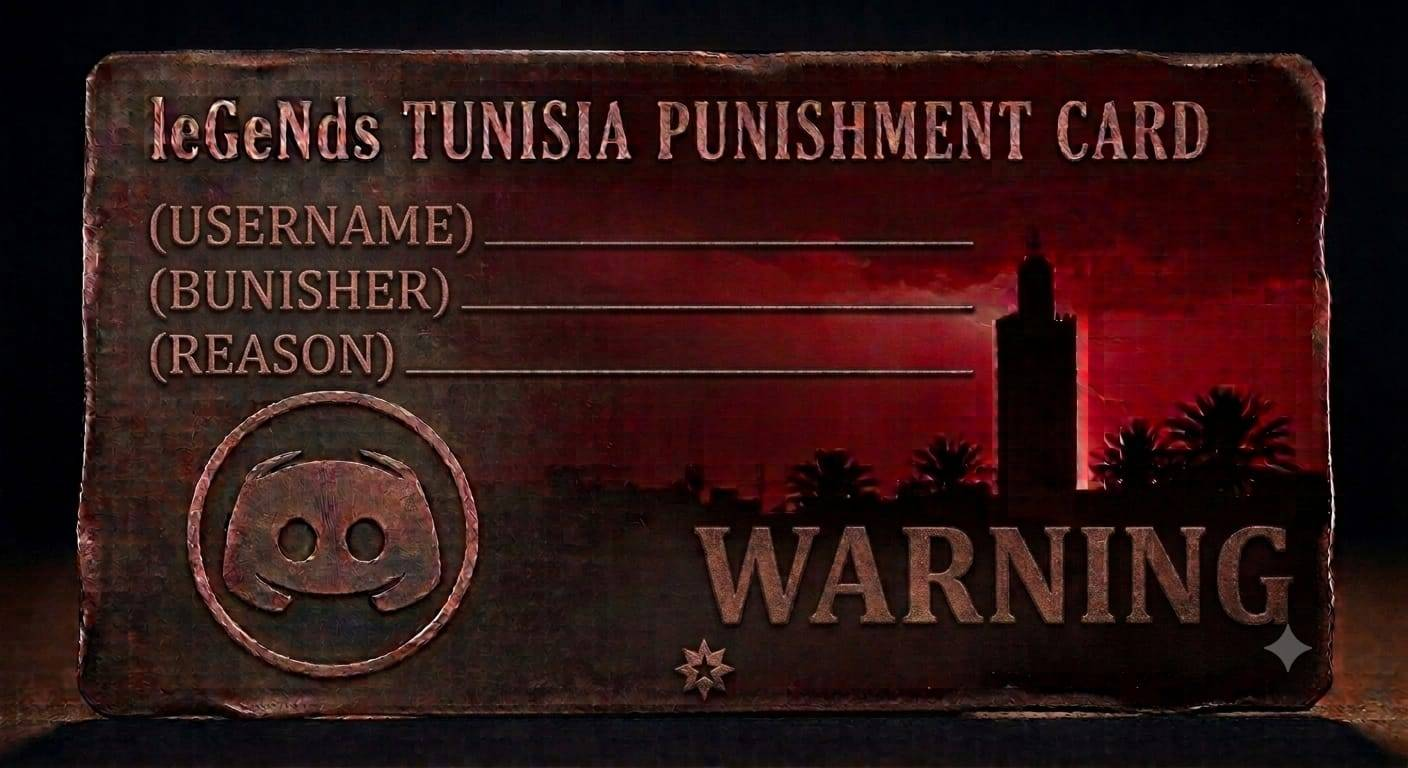
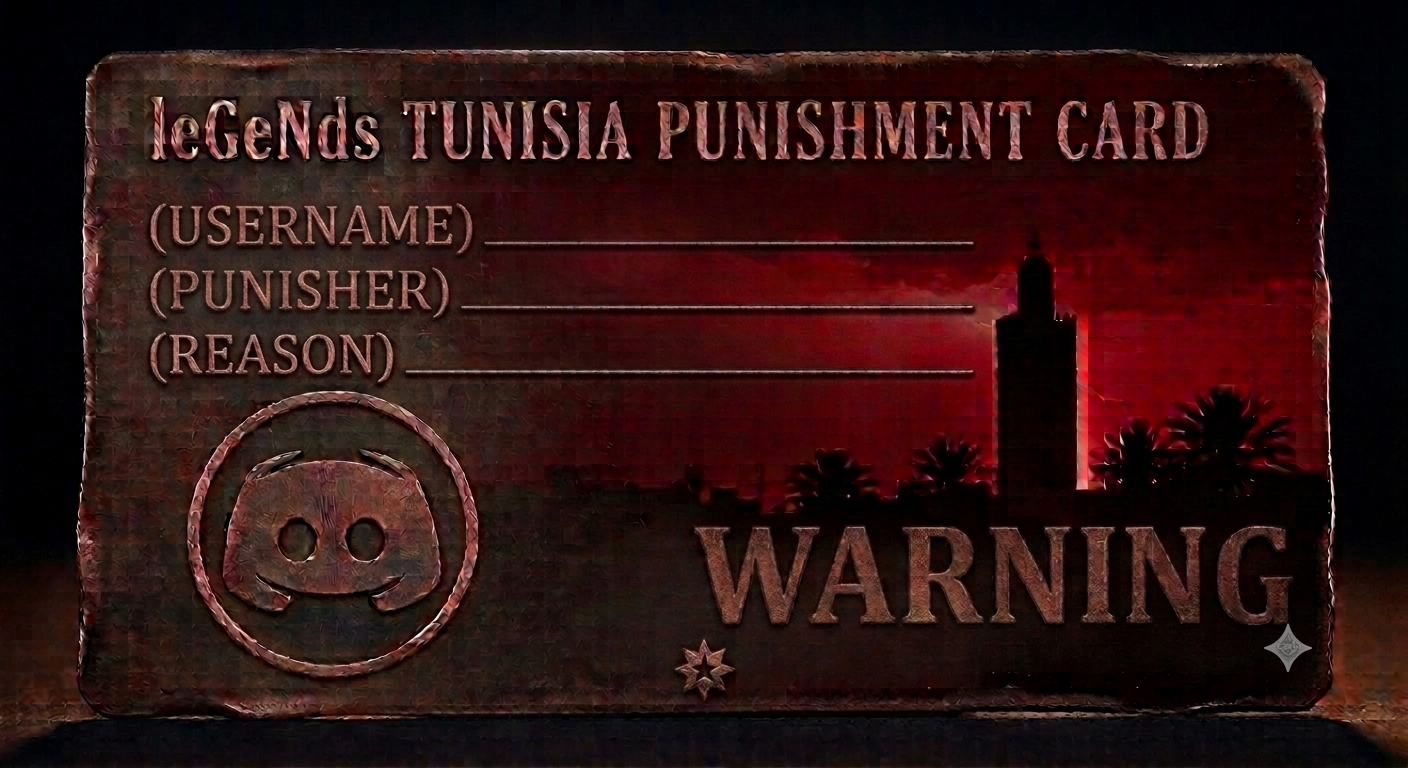
update text position 2

Changed region(s): [[0.125, 0.3438, 0.25, 0.4062], [0.9062, 0.8125, 0.9375, 0.875]]

diff --git a/punishment_card.py b/punishment_card.py
@@ -21,11 +21,11 @@ LABELS = {
     "warn": "WARN",
 }
 
-# Positions as fractions of template width/height (tweak if text is misaligned)
+# Positions as fractions of template width/height (1408×768 templates)
 TEXT_X_RATIO = 0.36
-USERNAME_Y_RATIO = 0.335
-PUNISHER_Y_RATIO = 0.420
-REASON_Y_RATIO = 0.505
+USERNAME_Y_RATIO = 0.315
+PUNISHER_Y_RATIO = 0.398
+REASON_Y_RATIO = 0.483
 FONT_SIZE_RATIO = 0.042
 TEXT_COLOR = "#d4a574"
 MAX_FIELD_LEN = 48